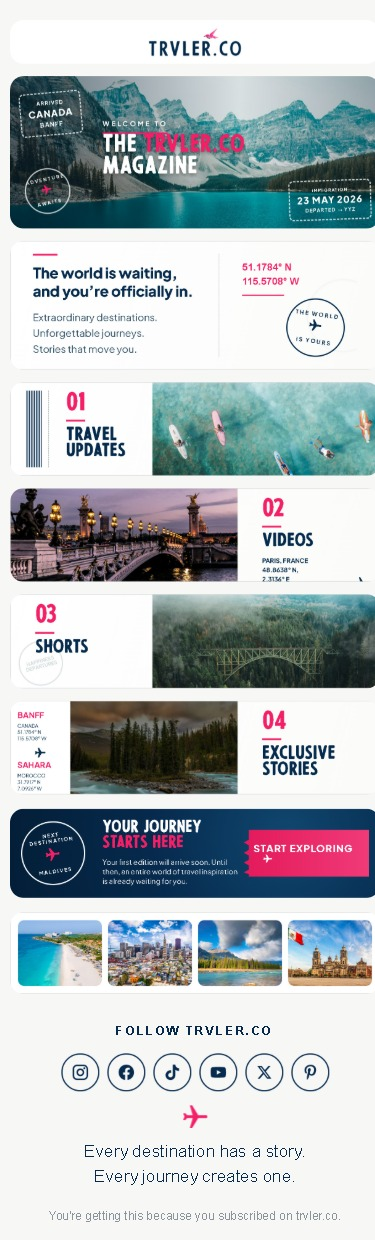
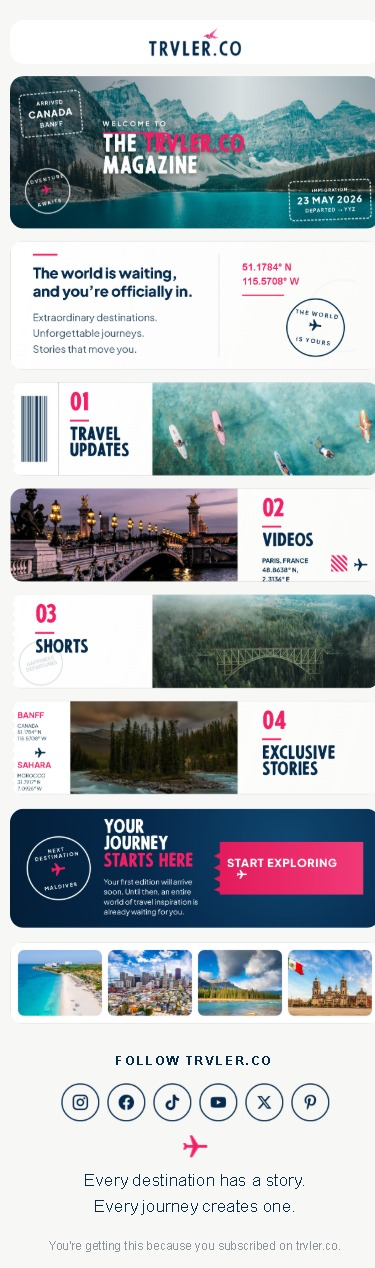
edit

diff --git a/README.md b/README.md
@@ -131,6 +131,33 @@ around 1200-1500px wide, they can be dropped straight in and re-rendered.
 
 ---
 
+## Ticket detail (Sir's round, 27 Aug)
+
+Sir marked three things as missing against his original mock. All three are back:
+
+| Marked | Now |
+|---|---|
+| **Barcode on card 01** | A real barcode &mdash; bars of varying width, not evenly spaced lines &mdash; sitting in its own stub behind a dashed perforation. Generated, not downloaded, so the colour and size are exact. |
+| **Pink hatched square on card 02** | Back, beside the plane glyph, in brand pink |
+| **BANFF / SAHARA route stub on card 04** | Present, mirrored to the left because card 04 is a flipped ticket |
+
+### Torn edges
+
+Sir: *"edges look like ticket"*. A ticket stub is not notched at the corners &mdash;
+it has a row of small bites down the whole edge. Each card now tears on
+**exactly one edge**, following the zigzag, and **never on the photo side**:
+
+| Card | Tears on | Which side that is |
+|---|---|---|
+| 01 | left | past the barcode stub |
+| 02 | right | the text panel |
+| 03 | left | the text panel |
+| 04 | left | the route-stub side |
+
+Biting every edge of every card looked busy; one edge each reads as deliberate.
+
+---
+
 ## Fonts — trvler.co's own
 
 The original package used Georgia and Arial Narrow. Everything now uses the
